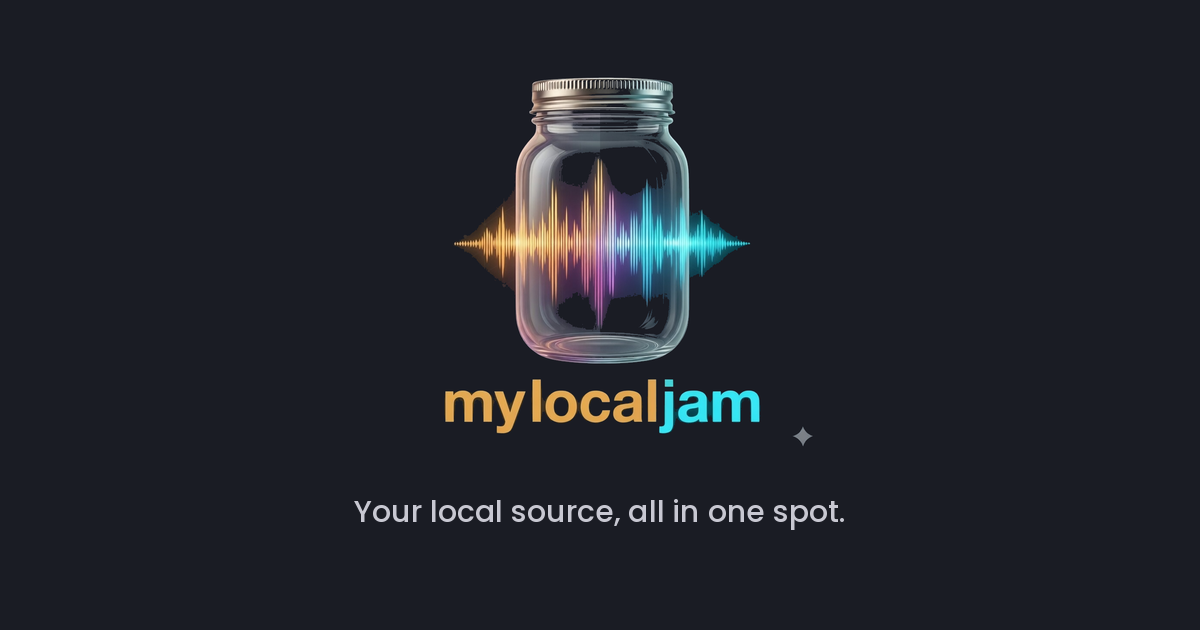
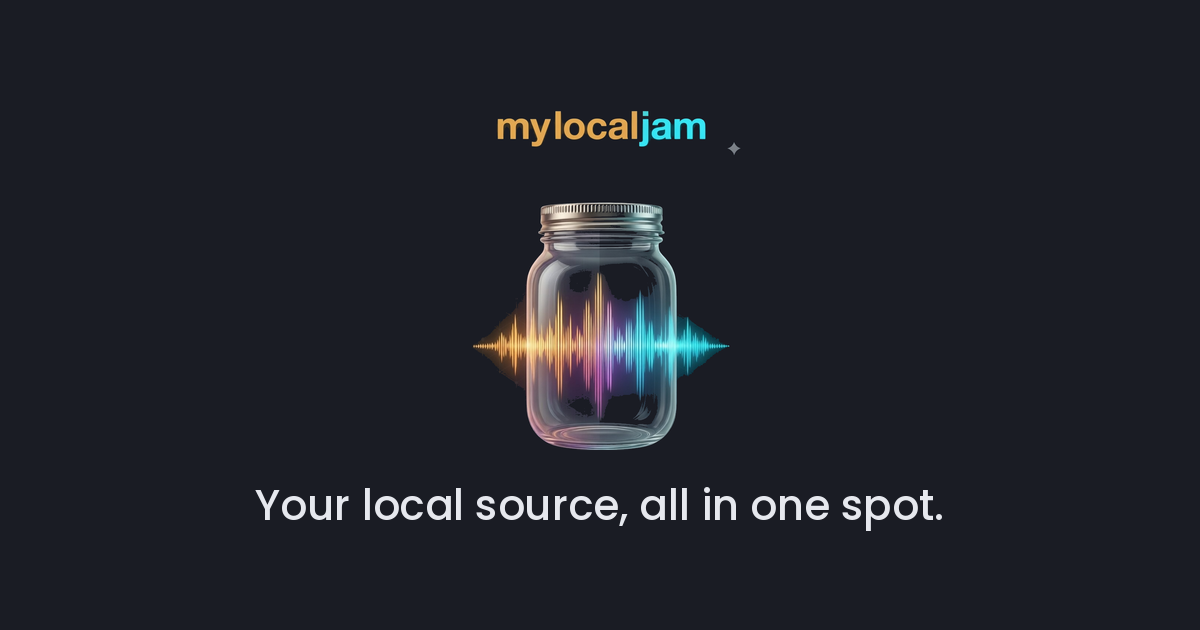
Update OG share image and meta titles to match mylocaljam branding

Changed region(s): [[0.37, 0.1206, 0.6475, 0.7238], [0.2158, 0.7841, 0.8017, 0.8444], [0.6475, 0.6635, 0.6783, 0.6937]]

diff --git a/src/app/layout.js b/src/app/layout.js
@@ -3,12 +3,12 @@ import { Suspense } from 'react';
 import PostHogProvider from '@/components/PostHogProvider';
 
 export const metadata = {
-  title: 'My Local Jam',
-  description: 'Your local scene, all in one spot!',
+  title: 'mylocaljam',
+  description: 'Your local source, all in one spot.',
   keywords: 'live music, jersey shore, asbury park, belmar, point pleasant, concerts, events tonight, local bands, NJ music',
   openGraph: {
-    title: 'My Local Jam',
-    description: 'Your local scene, all in one spot!',
+    title: 'mylocaljam | mylocaljam.com',
+    description: 'Your local source, all in one spot.',
     url: 'https://mylocaljam.com',
     siteName: 'myLocaljam',
     images: [
@@ -23,8 +23,8 @@ export const metadata = {
   },
   twitter: {
     card: 'summary_large_image',
-    title: 'My Local Jam',
-    description: 'Your local scene, all in one spot!',
+    title: 'mylocaljam | mylocaljam.com',
+    description: 'Your local source, all in one spot.',
     images: ['/images/og-share.png'],
   },
   icons: {
